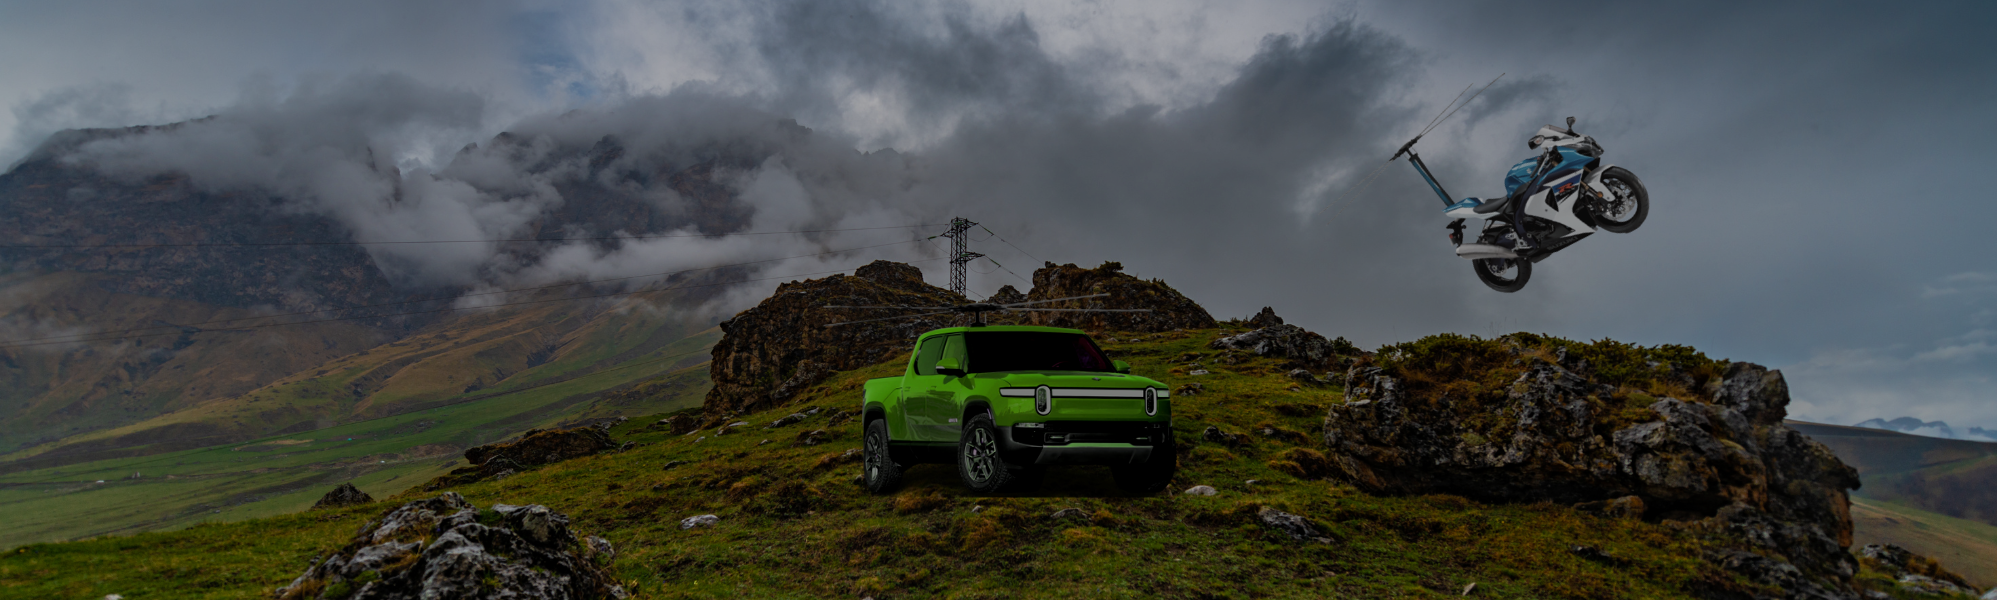
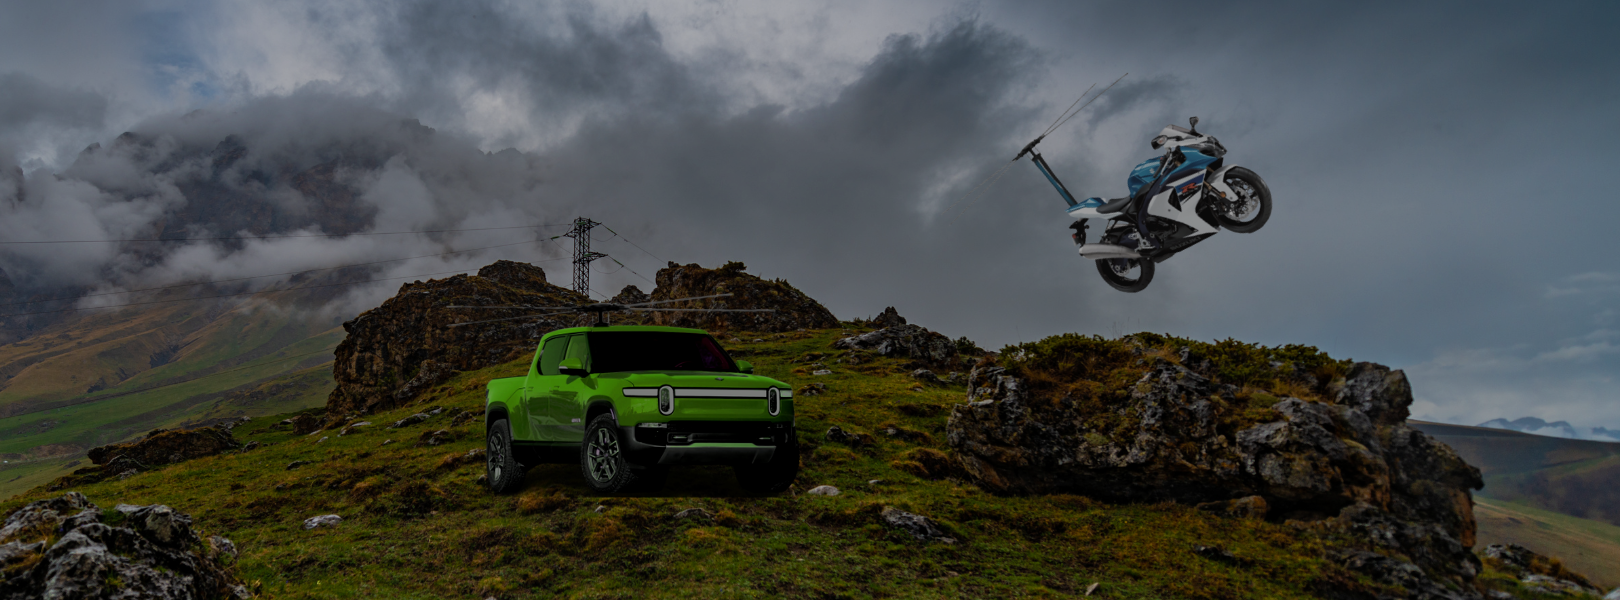
index styling

diff --git a/src/html/index.html b/src/html/index.html
@@ -12,17 +12,13 @@
 
   <title>Vehicle Birds</title>
 
-  <link rel="canonical" href="https://v5.getbootstrap.com/docs/5.0/examples/carousel/">
+  <link href="../css/indexStyle.css" rel="stylesheet">
 
   <!-- Bootstrap core CSS -->
   <link rel="stylesheet" href="https://stackpath.bootstrapcdn.com/bootstrap/5.0.0-alpha1/css/bootstrap.min.css" integrity="sha384-r4NyP46KrjDleawBgD5tp8Y7UzmLA05oM1iAEQ17CSuDqnUK2+k9luXQOfXJCJ4I" crossorigin="anonymous">
   <script src="https://stackpath.bootstrapcdn.com/bootstrap/5.0.0-alpha1/js/bootstrap.min.js" integrity="sha384-oesi62hOLfzrys4LxRF63OJCXdXDipiYWBnvTl9Y9/TRlw5xlKIEHpNyvvDShgf/" crossorigin="anonymous"></script>
   <script src="https://cdn.jsdelivr.net/npm/popper.js@1.16.0/dist/umd/popper.min.js" integrity="sha384-Q6E9RHvbIyZFJoft+2mJbHaEWldlvI9IOYy5n3zV9zzTtmI3UksdQRVvoxMfooAo" crossorigin="anonymous"></script>
 
-  <!-- Custom styles for this template -->
-  <link href="carousel.css" rel="stylesheet">
-
-  <link href="../css/indexStyle.css" rel="stylesheet">
 </head>
 
 <body>
@@ -57,37 +53,40 @@
     </nav>
     <picture>
       <source srcset="../img/mainLogos/Header.jpg" media="(min-width: 767px)">
-      <img src="../img/mainLogos/HeaderMobile.jpg" class="img-fluid" alt="Vehicle Birds Cool Banner">
+      <img src="../img/mainLogos/HeaderMobile.jpg" class="img-fluid pic" alt="Vehicle Birds Cool Banner">
     </picture>
   </header>
 
   <main>
 
-    <div class="container">
+    <div class="container ">
       <img src="../img/index/truck-on-mountain.png" class="img-fluid imgW" alt="Green helicopter truck on top of scenic mountain with motorcycle flying by"></svg>
       <div class="carousel-caption text-right">
         <h1 class = "containerH1">For the Adventurer in everyone!</h1>
         <p class = "containerP">Take adventure to the level with our all terrain conversion kits!</p>
-        <p><a class="btn btn-lg btn-primary button" href="about.html" role="button">Discover More</a></p>
       </div>
+
+      <p><a class="btn btn-primary btn-block button" href="about-me.html" role="button">Discover More</a></p>
     </div>
 
-    <div class="container">
+    <div class="container ">
       <img src="../img/index/flying-beach-convertable.png" class="img-fluid imgW" alt="Silver convertable cruising on the beach and flying above the water"></svg>
       <div class="carousel-caption">
         <h1 class = "containerH1">A flying convertable?</h1>
         <p class = "containerP">Feel the sea breeze on the sand or cruising above the water!</p>
-        <p><a class="btn btn-lg btn-primary button" href="store.html" role="button">Shop Now</a></p>
       </div>
+
+      <p><a class="btn btn-primary button btn-block" href="store.html" role="button">Shop Now</a></p>
     </div>
 
-    <div class="container">
+    <div class="container ">
       <img src="../img/index/on-the-town-bug.png" class="img-fluid imgW" alt="Purple volkswagen beetle sitting in the middle of foreign town"></svg>
       <div class="carousel-caption text-left">
         <h1 class = "containerH1">Flying punch buggy?</h1>
         <p class = "containerP">Perfect for a night on the town, or above it!</p>
-        <p><a class="btn btn-lg btn-primary button" href="store.html" role="button">More Info</a></p>
       </div>
+
+      <p><a class="btn btn-primary button btn-block" href="store.html" role="button">More Info</a></p>
     </div>
 
     <!-- FOOTER -->

diff --git a/src/css/indexStyle.css b/src/css/indexStyle.css
@@ -119,6 +119,7 @@ footer {
   height: 180px;
   vertical-align: middle;
   padding-top: 15px;
+  margin-top: 50px;
 }
 
 footer a {
@@ -150,19 +151,16 @@ footer a {
 
 .imgW {
   position: relative;
-  left: 50%;
-  right: 50%;
-  margin-left: -50vw;
-  margin-right: -50vw;
-  max-width: 100vw;
-  width: 100vw;
+  max-width: 100%;
+  width: 100%;
+  margin-top: 35px;
+  margin-bottom: 10px;
 }
 
 .button {
   font-size: 1.5vw;
   position: absolute;
-  bottom: -1vw;
-  width: 17vw;
+  display: block;
 }
 
 .containerH1 {
@@ -175,4 +173,8 @@ footer a {
   position: absolute;
   bottom: 8vw;
   padding-top: 20vw;
+}
+
+.pic {
+  margin-bottom: 10px;
 }

diff --git a/src/html/blog.html b/src/html/blog.html
@@ -93,8 +93,7 @@
         </div>
         </nav>
 	<picture>
-      	<source srcset="../img/mainLogos/Header.jpg"
-              media="(min-width: 767px)">
+      	<source srcset="../img/mainLogos/Header.jpg" media="(min-width: 767px)">
               <img src="../img/mainLogos/HeaderMobile.jpg" class="img-fluid" alt="Vehicle Birds Cool Banner">
    	</picture>     
 	</header>
